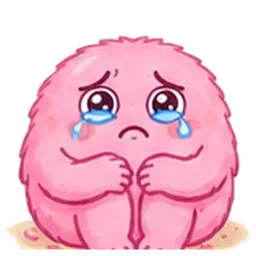
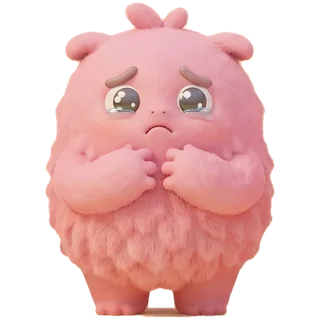
v12.1：委屈怪獸換成 3D 新圖，6 隻怪獸全部完成
Claude-Session: https://claude.ai/code/session_01CEkvYQrBkbWEs5gG6BXqD9

diff --git a/index.html b/index.html
@@ -782,7 +782,7 @@ const moodOf=n=>[1,1,2,3,4,4][n]||3;
 const BADGE={angry:['🚦','紅綠燈徽章','生氣時會先停一下'],sad:['☂','小雨傘','難過時會照顧自己'],defiant:['🏅','進步獎牌','跟昨天的自己比'],
   stuck:['🚩','一步一步旗','把難事切成小步驟'],scared:['🛡','勇氣盾牌','先試一小步'],wronged:['💬','說話泡泡','說出自己的想法']};
 /* 已換成 3D 新圖、有 4 階段成長圖的怪獸（徽章已畫在圖裡，不再疊 emoji） */
-const GROWN=new Set(['angry','sad','defiant','stuck','scared']);
+const GROWN=new Set(['angry','sad','defiant','stuck','scared','wronged']);
 /* 比較寬的圖（手拿旗子、張開手臂）：寬高比，讓身體高度跟其他階段一致 */
 const ASPECT={stuck2:1.03,stuck4:1.11,stuck0:1.18,stuckg2:1.15,stuckg4:1.11};
 const IMG=(k,st)=>`img/${k}${st}.webp`;

diff --git a/art/PROMPTS.md b/art/PROMPTS.md
@@ -48,7 +48,7 @@ Same [外型]. 4 growth stages in a row, all calm and kind, never [情緒]: baby
 | 不服氣 defiant | orange spiky sun-like monster | grumpy side-eye → arms crossed → stomping, puffed cheeks → arms crossed tightly with steam | arms relaxed, accepting smile, thumbs up | small gold medal badge → holding up a gold medal | ✅ 完成 |
 | 做不到 stuck | purple tangled-yarn monster | small frown → dizzy swirl eyes → holding head → slumped, wants to give up | yarn neat, arms raised "I can do it" | small flag badge → flag with footprint steps | ✅ 完成 |
 | 擔心 scared | green fuzzy monster | a little nervous → worried biting nails → shaking, covering face → very scared hiding | relaxed shoulders, soft smile, one hand on chest breathing | small shield badge → small shield | ✅ 完成 |
-| 委屈 wronged | pink round fluffy monster | lips pressed, teary eyes → holding back tears → tears falling → hugging knees crying | soft smile, holding a heart speech bubble | speech-bubble badge → heart speech bubble | 待做 |
+| 委屈 wronged | pink round fluffy monster | lips pressed, teary eyes → holding back tears → tears falling → hugging knees crying | soft smile, holding a heart speech bubble | speech-bubble badge → heart speech bubble | ✅ 完成 |
 
 ## 家園（v12 起）
 家園已經有：冷靜角落（Lv.4 解鎖）、晚上睡覺模式、自由拖拉布置。目前是簡單圖形，等下面的圖畫好再換。
